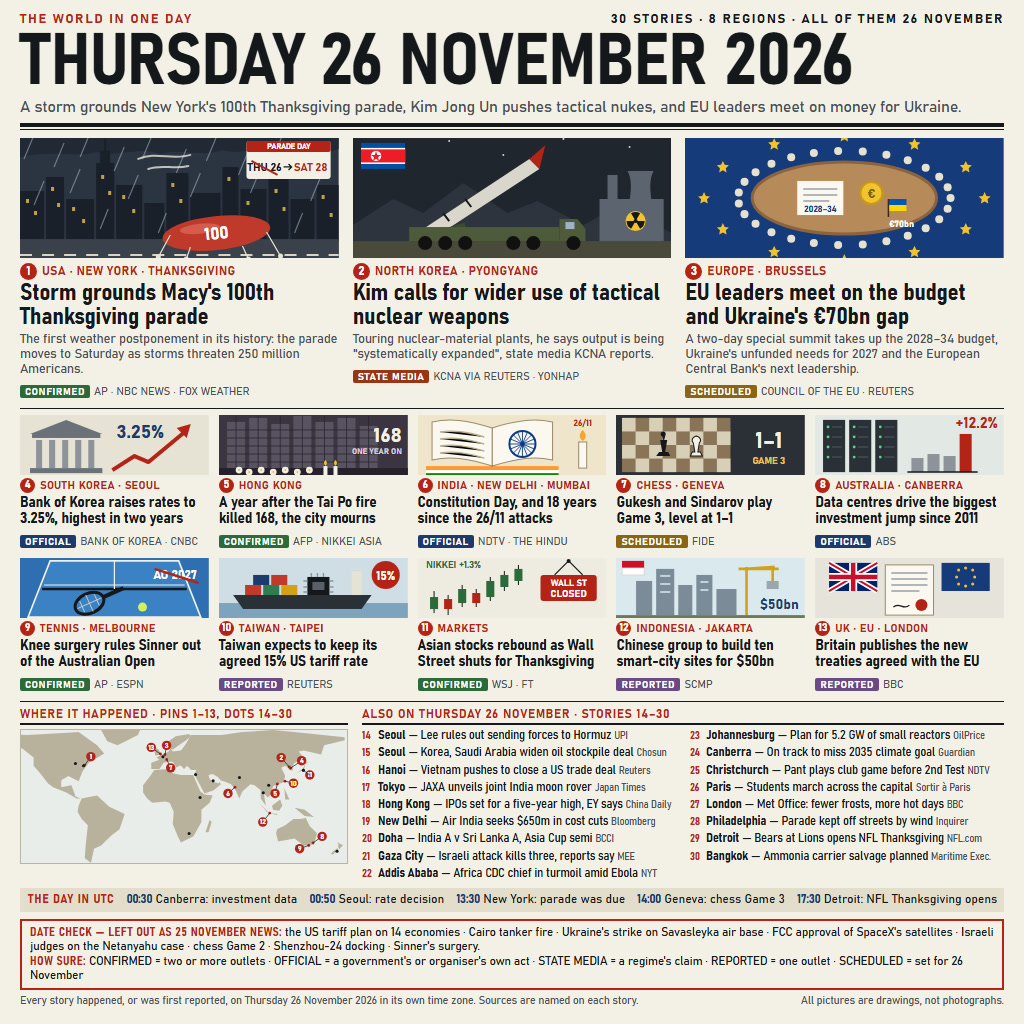
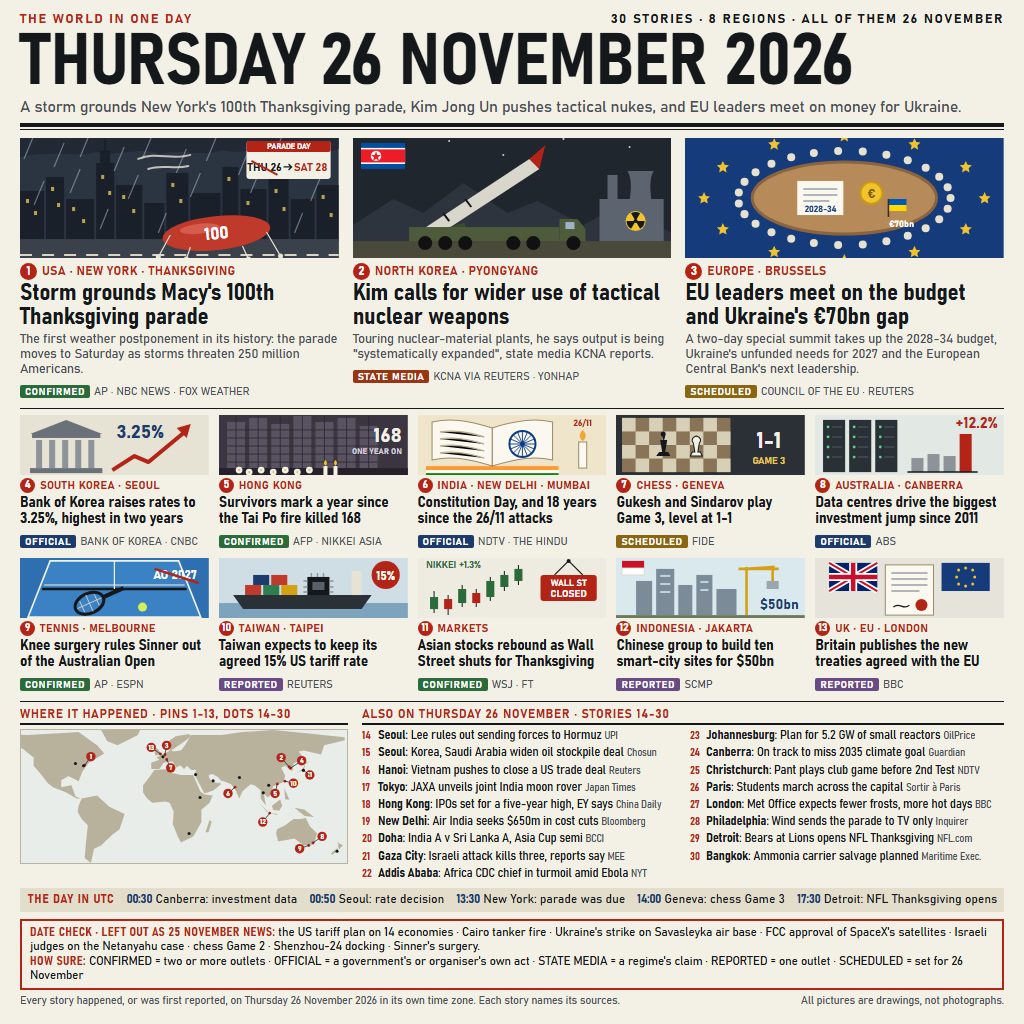
v3 copy pass: no dashes, sourced wording on Hong Kong, active footer

diff --git a/poster/poster.html b/poster/poster.html
@@ -162,7 +162,7 @@
         <ellipse cx="159" cy="69" rx="92" ry="36" fill="#b88a5a" stroke="#8b6340" stroke-width="3"/>
         <g transform="translate(112 52)">
           <rect width="46" height="34" fill="#fbf8f1"/><path d="M6 8h34M6 14h34M6 20h26" stroke="#9aa0a8" stroke-width="1.5"/>
-          <text x="23" y="31" font-family="Bahnschrift, Arial" font-weight="700" font-size="8.5" fill="#163a7a" text-anchor="middle">2028–34</text>
+          <text x="23" y="31" font-family="Bahnschrift, Arial" font-weight="700" font-size="8.5" fill="#163a7a" text-anchor="middle">2028-34</text>
         </g>
         <circle cx="186" cy="64" r="11" fill="#f2c230" stroke="#c99a12" stroke-width="2"/>
         <text x="186" y="69" font-family="Bahnschrift, Arial" font-weight="700" font-size="13" fill="#7a5a06" text-anchor="middle">€</text>
@@ -172,7 +172,7 @@
       </svg>
       <div class="kick"><span class="n">3</span>EUROPE · BRUSSELS</div>
       <h1>EU leaders meet on the budget and Ukraine's €70bn gap</h1>
-      <p>A two-day special summit takes up the 2028–34 budget, Ukraine's unfunded needs for 2027 and the European Central Bank's next leadership.</p>
+      <p>A two-day special summit takes up the 2028-34 budget, Ukraine's unfunded needs for 2027 and the European Central Bank's next leadership.</p>
       <div class="meta"><span class="badge SCHEDULED">SCHEDULED</span><span class="src">COUNCIL OF THE EU · REUTERS</span></div>
     </article>
   </section>
@@ -214,7 +214,7 @@
         <text x="182" y="42" font-family="Bahnschrift, Arial" font-weight="700" font-size="8" fill="#d8cfdd" text-anchor="end">ONE YEAR ON</text>
       </svg>
       <div class="kick"><span class="n">5</span>HONG KONG</div>
-      <h3>A year after the Tai Po fire killed 168, the city mourns</h3>
+      <h3>Survivors mark a year since the Tai Po fire killed 168</h3>
       <div class="meta"><span class="badge CONFIRMED">CONFIRMED</span><span class="src">AFP · NIKKEI ASIA</span></div>
     </article>
 
@@ -248,11 +248,11 @@
         </g>
         <g fill="#15171c"><path d="M40 44h14l-2-4h-3l2-12h-3l1-4h-3l1 4h-3l2 12h-3z"/><circle cx="47" cy="22" r="2.5"/></g>
         <g fill="#f4f0e6" stroke="#15171c"><path d="M74 44h12l-2-4h-2.5l1.5-9a4 4 0 1 0-6 0l1.5 9H76z"/></g>
-        <text x="152" y="36" font-family="Bahnschrift, Arial" font-weight="700" font-size="22" fill="#f4f0e6" text-anchor="middle">1–1</text>
+        <text x="152" y="36" font-family="Bahnschrift, Arial" font-weight="700" font-size="22" fill="#f4f0e6" text-anchor="middle">1-1</text>
         <text x="152" y="52" font-family="Bahnschrift, Arial" font-weight="700" font-size="9.5" fill="#e8c35a" text-anchor="middle">GAME 3</text>
       </svg>
       <div class="kick"><span class="n">7</span>CHESS · GENEVA</div>
-      <h3>Gukesh and Sindarov play Game 3, level at 1–1</h3>
+      <h3>Gukesh and Sindarov play Game 3, level at 1-1</h3>
       <div class="meta"><span class="badge SCHEDULED">SCHEDULED</span><span class="src">FIDE</span></div>
     </article>
 
@@ -374,7 +374,7 @@
 
   <section class="bottom">
     <div>
-      <div class="sec">WHERE IT HAPPENED · PINS 1–13, DOTS 14–30</div>
+      <div class="sec">WHERE IT HAPPENED · PINS 1-13, DOTS 14-30</div>
       <div class="map">
         <svg viewBox="44 0 318 130" width="326" height="133" aria-label="World map with numbered pins">
           <rect x="44" y="0" width="318" height="130" fill="#e9ece9"/>
@@ -432,25 +432,25 @@
       </div>
     </div>
     <div>
-      <div class="sec">ALSO ON THURSDAY 26 NOVEMBER · STORIES 14–30</div>
+      <div class="sec">ALSO ON THURSDAY 26 NOVEMBER · STORIES 14-30</div>
       <ul class="also">
-        <li><i>14</i><b>Seoul</b> — Lee rules out sending forces to Hormuz <span>UPI</span></li>
-        <li><i>15</i><b>Seoul</b> — Korea, Saudi Arabia widen oil stockpile deal <span>Chosun</span></li>
-        <li><i>16</i><b>Hanoi</b> — Vietnam pushes to close a US trade deal <span>Reuters</span></li>
-        <li><i>17</i><b>Tokyo</b> — JAXA unveils joint India moon rover <span>Japan Times</span></li>
-        <li><i>18</i><b>Hong Kong</b> — IPOs set for a five-year high, EY says <span>China Daily</span></li>
-        <li><i>19</i><b>New Delhi</b> — Air India seeks $650m in cost cuts <span>Bloomberg</span></li>
-        <li><i>20</i><b>Doha</b> — India A v Sri Lanka A, Asia Cup semi <span>BCCI</span></li>
-        <li><i>21</i><b>Gaza City</b> — Israeli attack kills three, reports say <span>MEE</span></li>
-        <li><i>22</i><b>Addis Ababa</b> — Africa CDC chief in turmoil amid Ebola <span>NYT</span></li>
-        <li><i>23</i><b>Johannesburg</b> — Plan for 5.2 GW of small reactors <span>OilPrice</span></li>
-        <li><i>24</i><b>Canberra</b> — On track to miss 2035 climate goal <span>Guardian</span></li>
-        <li><i>25</i><b>Christchurch</b> — Pant plays club game before 2nd Test <span>NDTV</span></li>
-        <li><i>26</i><b>Paris</b> — Students march across the capital <span>Sortir à Paris</span></li>
-        <li><i>27</i><b>London</b> — Met Office: fewer frosts, more hot days <span>BBC</span></li>
-        <li><i>28</i><b>Philadelphia</b> — Parade kept off streets by wind <span>Inquirer</span></li>
-        <li><i>29</i><b>Detroit</b> — Bears at Lions opens NFL Thanksgiving <span>NFL.com</span></li>
-        <li><i>30</i><b>Bangkok</b> — Ammonia carrier salvage planned <span>Maritime Exec.</span></li>
+        <li><i>14</i><b>Seoul</b>: Lee rules out sending forces to Hormuz <span>UPI</span></li>
+        <li><i>15</i><b>Seoul</b>: Korea, Saudi Arabia widen oil stockpile deal <span>Chosun</span></li>
+        <li><i>16</i><b>Hanoi</b>: Vietnam pushes to close a US trade deal <span>Reuters</span></li>
+        <li><i>17</i><b>Tokyo</b>: JAXA unveils joint India moon rover <span>Japan Times</span></li>
+        <li><i>18</i><b>Hong Kong</b>: IPOs set for a five-year high, EY says <span>China Daily</span></li>
+        <li><i>19</i><b>New Delhi</b>: Air India seeks $650m in cost cuts <span>Bloomberg</span></li>
+        <li><i>20</i><b>Doha</b>: India A v Sri Lanka A, Asia Cup semi <span>BCCI</span></li>
+        <li><i>21</i><b>Gaza City</b>: Israeli attack kills three, reports say <span>MEE</span></li>
+        <li><i>22</i><b>Addis Ababa</b>: Africa CDC chief in turmoil amid Ebola <span>NYT</span></li>
+        <li><i>23</i><b>Johannesburg</b>: Plan for 5.2 GW of small reactors <span>OilPrice</span></li>
+        <li><i>24</i><b>Canberra</b>: On track to miss 2035 climate goal <span>Guardian</span></li>
+        <li><i>25</i><b>Christchurch</b>: Pant plays club game before 2nd Test <span>NDTV</span></li>
+        <li><i>26</i><b>Paris</b>: Students march across the capital <span>Sortir à Paris</span></li>
+        <li><i>27</i><b>London</b>: Met Office expects fewer frosts, more hot days <span>BBC</span></li>
+        <li><i>28</i><b>Philadelphia</b>: Wind sends the parade to TV only <span>Inquirer</span></li>
+        <li><i>29</i><b>Detroit</b>: Bears at Lions opens NFL Thanksgiving <span>NFL.com</span></li>
+        <li><i>30</i><b>Bangkok</b>: Ammonia carrier salvage planned <span>Maritime Exec.</span></li>
       </ul>
     </div>
   </section>
@@ -459,8 +459,8 @@
     <span><b>00:30</b> Canberra: investment data</span><span><b>00:50</b> Seoul: rate decision</span>
     <span><b>13:30</b> New York: parade was due</span><span><b>14:00</b> Geneva: chess Game 3</span><span><b>17:30</b> Detroit: NFL Thanksgiving opens</span></div>
 
-  <div class="check"><b>DATE CHECK — LEFT OUT AS 25 NOVEMBER NEWS:</b> the US tariff plan on 14 economies · Cairo tanker fire · Ukraine's strike on Savasleyka air base · FCC approval of SpaceX's satellites · Israeli judges on the Netanyahu case · chess Game 2 · Shenzhou-24 docking · Sinner's surgery.
+  <div class="check"><b>DATE CHECK · LEFT OUT AS 25 NOVEMBER NEWS:</b> the US tariff plan on 14 economies · Cairo tanker fire · Ukraine's strike on Savasleyka air base · FCC approval of SpaceX's satellites · Israeli judges on the Netanyahu case · chess Game 2 · Shenzhou-24 docking · Sinner's surgery.
     <br><b>HOW SURE:</b> CONFIRMED = two or more outlets · OFFICIAL = a government's or organiser's own act · STATE MEDIA = a regime's claim · REPORTED = one outlet · SCHEDULED = set for 26 November</div>
-  <div class="foot"><span>Every story happened, or was first reported, on Thursday 26 November 2026 in its own time zone. Sources are named on each story.</span><span>All pictures are drawings, not photographs.</span></div>
+  <div class="foot"><span>Every story happened, or was first reported, on Thursday 26 November 2026 in its own time zone. Each story names its sources.</span><span>All pictures are drawings, not photographs.</span></div>
 </body>
 </html>
